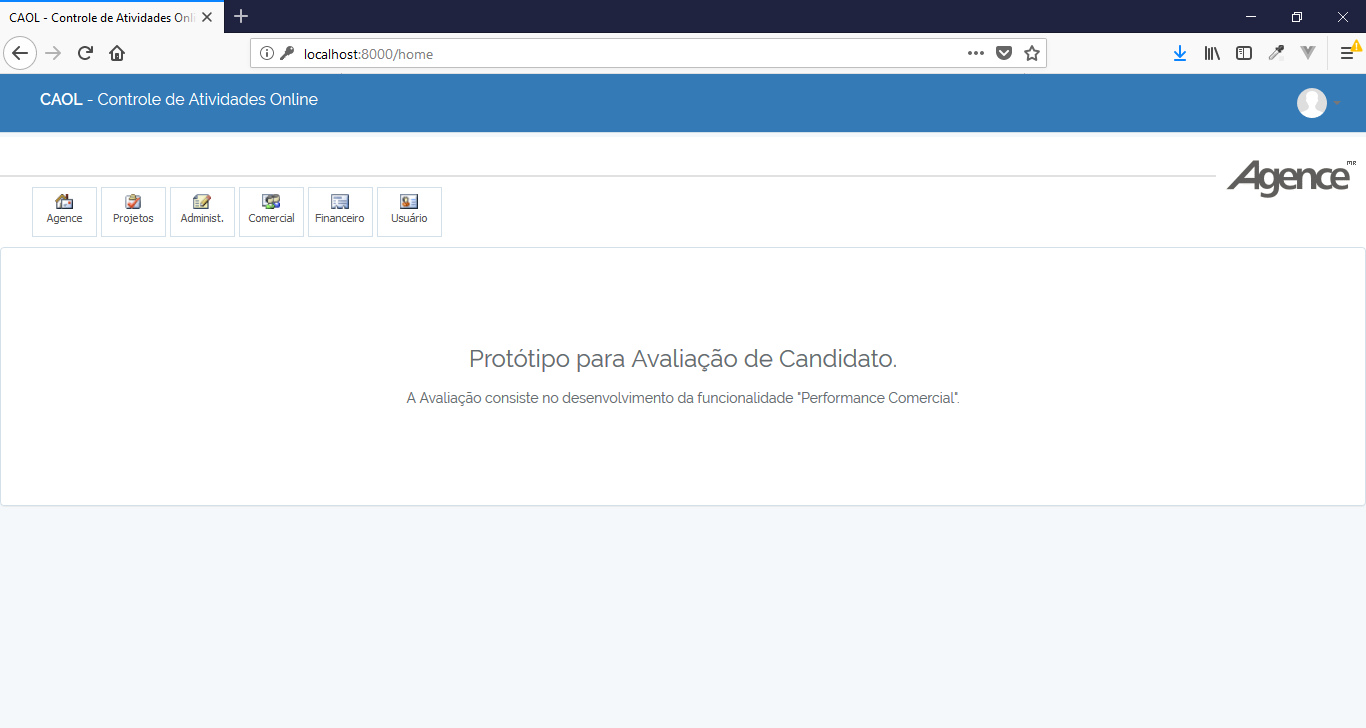
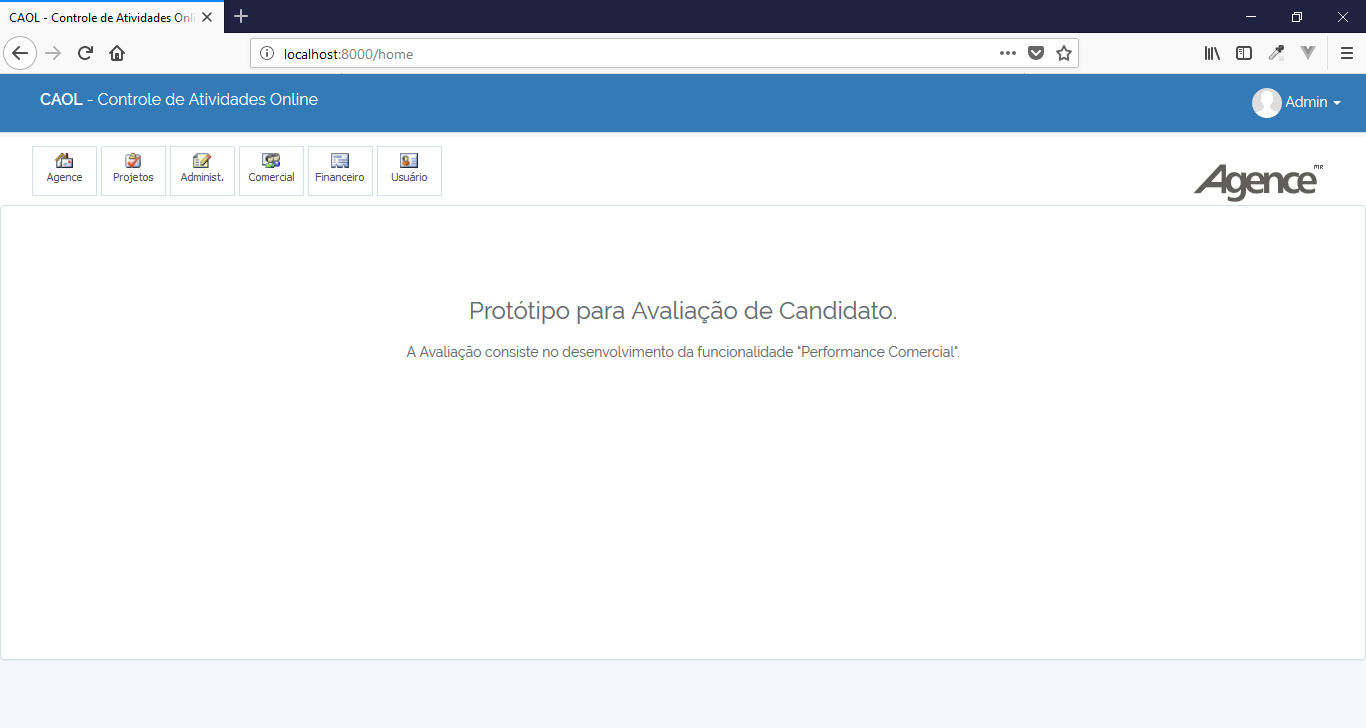
Atualização de arquivos

diff --git a/public/js/bootstrap-multiselect.js b/public/js/bootstrap-multiselect.js
@@ -393,9 +393,9 @@
             filterBehavior: 'text',
             includeFilterClearBtn: true,
             preventInputChangeEvent: false,
-            nonSelectedText: 'None selected',
-            nSelectedText: 'selected',
-            allSelectedText: 'All selected',
+            nonSelectedText: 'Nenhum selecionado',
+            nSelectedText: 'selecionado',
+            allSelectedText: 'Todos selecionados',
             numberDisplayed: 3,
             disableIfEmpty: false,
             disabledText: '',

diff --git a/public/css/style.css b/public/css/style.css
@@ -187,7 +187,8 @@ a {
 }
 
 .home {
-	padding: 70px 0px;
+	padding-top: 70px;
+	padding-bottom: 270px;
 	text-align: center;
 }
 
